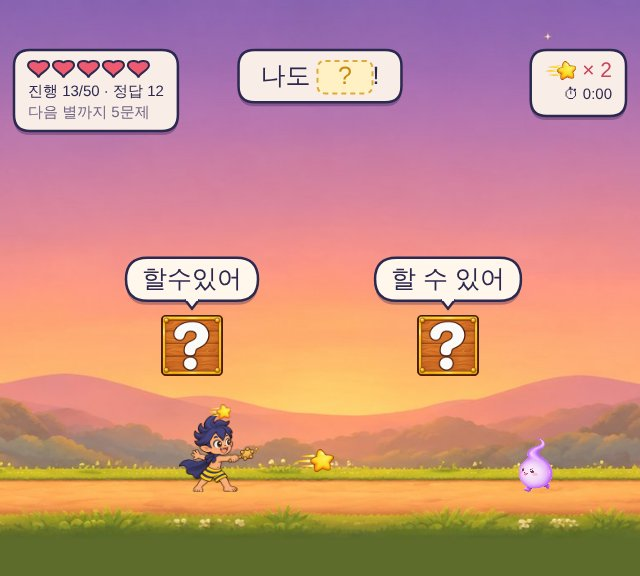
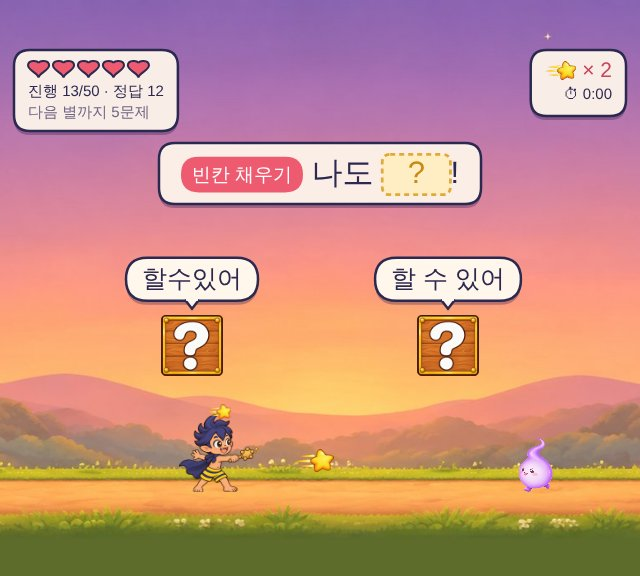
빈칸 문장을 블록 가까이 크게, '빈칸 채우기' 표시와 깜빡이는 빈칸
Claude-Session: https://claude.ai/code/session_01TJDp5ZZJ1Gi2SAYkCbi2fK

Changed region(s): [[0.2188, 0.2188, 0.7812, 0.375], [0.3438, 0.0625, 0.6562, 0.1875]]

diff --git a/spelling/index.html b/spelling/index.html
@@ -1733,17 +1733,26 @@ function drawHUD() {
 function drawSentence(q, short, leftEdge, rightEdge, top, panelH) {
   // 낱말 단위 조각: 빈칸은 한 덩어리
   const [before, after] = [q.s.split('___')[0] || '', q.s.split('___')[1] || ''];
-  const toks = [];
+  const badge = short ? '빈칸' : '빈칸 채우기';
+  const toks = [{ badge: true, t: badge, sp: false }];
   const pushWords = (str, firstSp) => {
-    str.split(' ').forEach((w, k) => { if (w) toks.push({ t: w, sp: k > 0 || firstSp }); });
+    str.split(' ').forEach((w, k) => { if (w) toks.push({ t: w, sp: k > 0 || firstSp || toks.length === 1 }); });
   };
   pushWords(before.replace(/\s+$/, ''), false);
-  toks.push({ blank: true, sp: /\s$/.test(before) && toks.length > 0 });
+  toks.push({ blank: true, sp: /\s$/.test(before) || toks.length === 1 });
   pushWords(after, /^\s/.test(after));
   const blankText = game.revealed ? q.a : '?';
-  const tokW = (tk, fs) => tk.blank
-    ? Math.max((game.revealed ? ctx.measureText(blankText).width : fs) + fs * 0.7, fs * 2.2)
-    : ctx.measureText(tk.t).width;
+  const tokW = (tk, fs) => {
+    if (tk.badge) {
+      ctx.font = font(Math.round(fs * 0.62));
+      const w = ctx.measureText(tk.t).width + fs * 0.7;
+      ctx.font = font(fs);
+      return w;
+    }
+    return tk.blank
+      ? Math.max((game.revealed ? ctx.measureText(blankText).width : fs) + fs * 0.7, fs * 2.2)
+      : ctx.measureText(tk.t).width;
+  };
   // maxW 안에 들어가게 줄 나누기 (최대 maxLines줄)
   const layout = (fs, maxW, maxLines) => {
     ctx.font = font(fs);
@@ -1763,14 +1772,29 @@ function drawSentence(q, short, leftEdge, rightEdge, top, panelH) {
   const padX = short ? 16 : 22;
   const maxFs = short ? 20 : Math.round(Math.max(20, Math.min(30, 26 * scale)));
   const between = rightEdge - leftEdge - padX * 2;
+  const bannerH = (l) => l.fs * 1.45 * l.lines.length + (short ? 12 : 16);
   let lay = null, y, mid = W / 2;
+  // 0) 블록 바로 위 빈 공간에 크게 (공간이 있을 때)
+  const pillFs = Math.round(Math.max(17, Math.min(28, W / 26)));
+  const pillTop = (game.blocks[0] ? game.blocks[0].y : H * 0.5) - (pillFs + 18) - 16;
+  const freeTop = top + panelH + 12, freeBot = pillTop - 14;
+  const bigFs = Math.round(Math.max(22, Math.min(36, 32 * scale)));
+  for (let fs = bigFs; fs >= 18 && !lay; fs--) {
+    lay = layout(fs, Math.min(W - 24, 960) - padX * 2, 2);
+    if (lay && bannerH(lay) > freeBot - freeTop) lay = null;
+  }
+  if (lay) {
+    y = Math.max(freeTop, freeBot - bannerH(lay) - 40);   // 블록 가까이
+  }
   // 1) 위쪽 패널 사이에 한 줄 → 2) 패널 사이에 두 줄 → 3) 패널 아래
   for (let fs = maxFs; fs >= (short ? 15 : 17) && !lay; fs--) lay = layout(fs, between, 1);
   for (let fs = short ? 18 : maxFs; fs >= 13 && !lay; fs--) {
     lay = layout(fs, between, 2);
     if (lay && (fs * 1.45 * 2 + 14) > panelH + 6) lay = null;   // 패널보다 너무 높으면 X
   }
-  if (lay) {
+  if (y !== undefined) {
+    // 0)에서 자리 잡음
+  } else if (lay) {
     y = top;
     const bw0 = Math.max(...lay.widths) + padX * 2;
     mid = Math.min(Math.max(W / 2, leftEdge + bw0 / 2), rightEdge - bw0 / 2);
@@ -1792,7 +1816,15 @@ function drawSentence(q, short, leftEdge, rightEdge, top, panelH) {
     line.forEach((tk, k) => {
       if (k > 0 && tk.sp) tx += lay.spW;
       const w = tokW(tk, fs);
-      if (!tk.blank) {
+      if (tk.badge) {
+        const bh2 = fs * 1.15;
+        ctx.fillStyle = CORAL;
+        roundRect(ctx, tx, cy - bh2 / 2, w, bh2, bh2 / 2); ctx.fill();
+        ctx.font = font(Math.round(fs * 0.62));
+        ctx.fillStyle = '#fff'; ctx.textAlign = 'center';
+        ctx.fillText(tk.t, tx + w / 2, cy + 1);
+        ctx.font = font(fs);
+      } else if (!tk.blank) {
         ctx.textAlign = 'left'; ctx.fillStyle = INK;
         ctx.fillText(tk.t, tx, cy);
       } else {
@@ -1802,7 +1834,9 @@ function drawSentence(q, short, leftEdge, rightEdge, top, panelH) {
           roundRect(ctx, tx, cy - boxH / 2, w, boxH, 8); ctx.fill();
           ctx.fillStyle = GOOD;
         } else {
-          ctx.fillStyle = '#fff1c4'; ctx.strokeStyle = '#e0a93a'; ctx.lineWidth = 2;
+          const pulse = 0.5 + 0.5 * Math.sin(frame / 9);
+          ctx.fillStyle = `rgba(255, ${226 + Math.round(pulse * 15)}, ${150 + Math.round(pulse * 60)}, 1)`;
+          ctx.strokeStyle = '#e0a93a'; ctx.lineWidth = 2 + pulse;
           ctx.setLineDash([5, 4]);
           roundRect(ctx, tx, cy - boxH / 2, w, boxH, 8); ctx.fill(); ctx.stroke();
           ctx.setLineDash([]);
